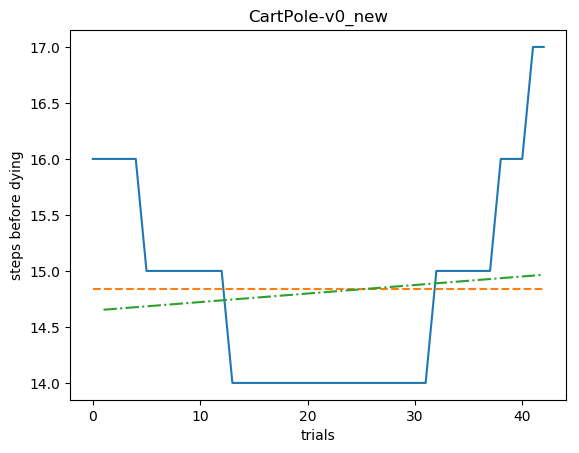
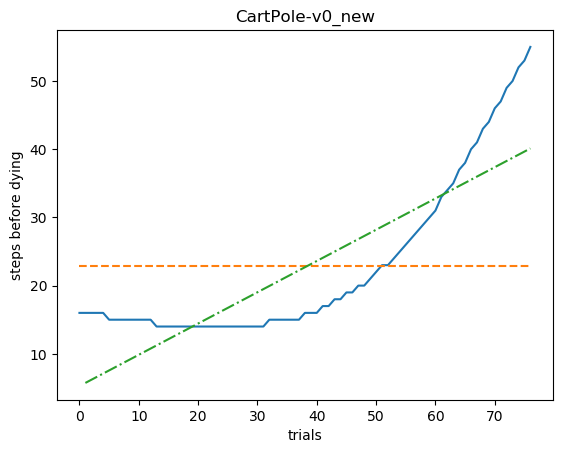
errors in code

diff --git a/cartPole_multi.py b/cartPole_multi.py
@@ -128,6 +128,7 @@ if __name__ == "__main__":
         while True:
             step += 1
             #env.render()
+            agent = agents[-1]
             action = agents[-1].act(state)
 
             next_state, reward, done, _ = env.step(action)
@@ -145,6 +146,6 @@ if __name__ == "__main__":
                 agents[-1].replay(batch_size)
 
             if step % 8 == 0:
-                for t in range(multi_step, 0):
-                    agents[t].set_weights()
+                for t in range(0,multi_step):
+                    agents[multi_step-1-t].set_weights()
 
